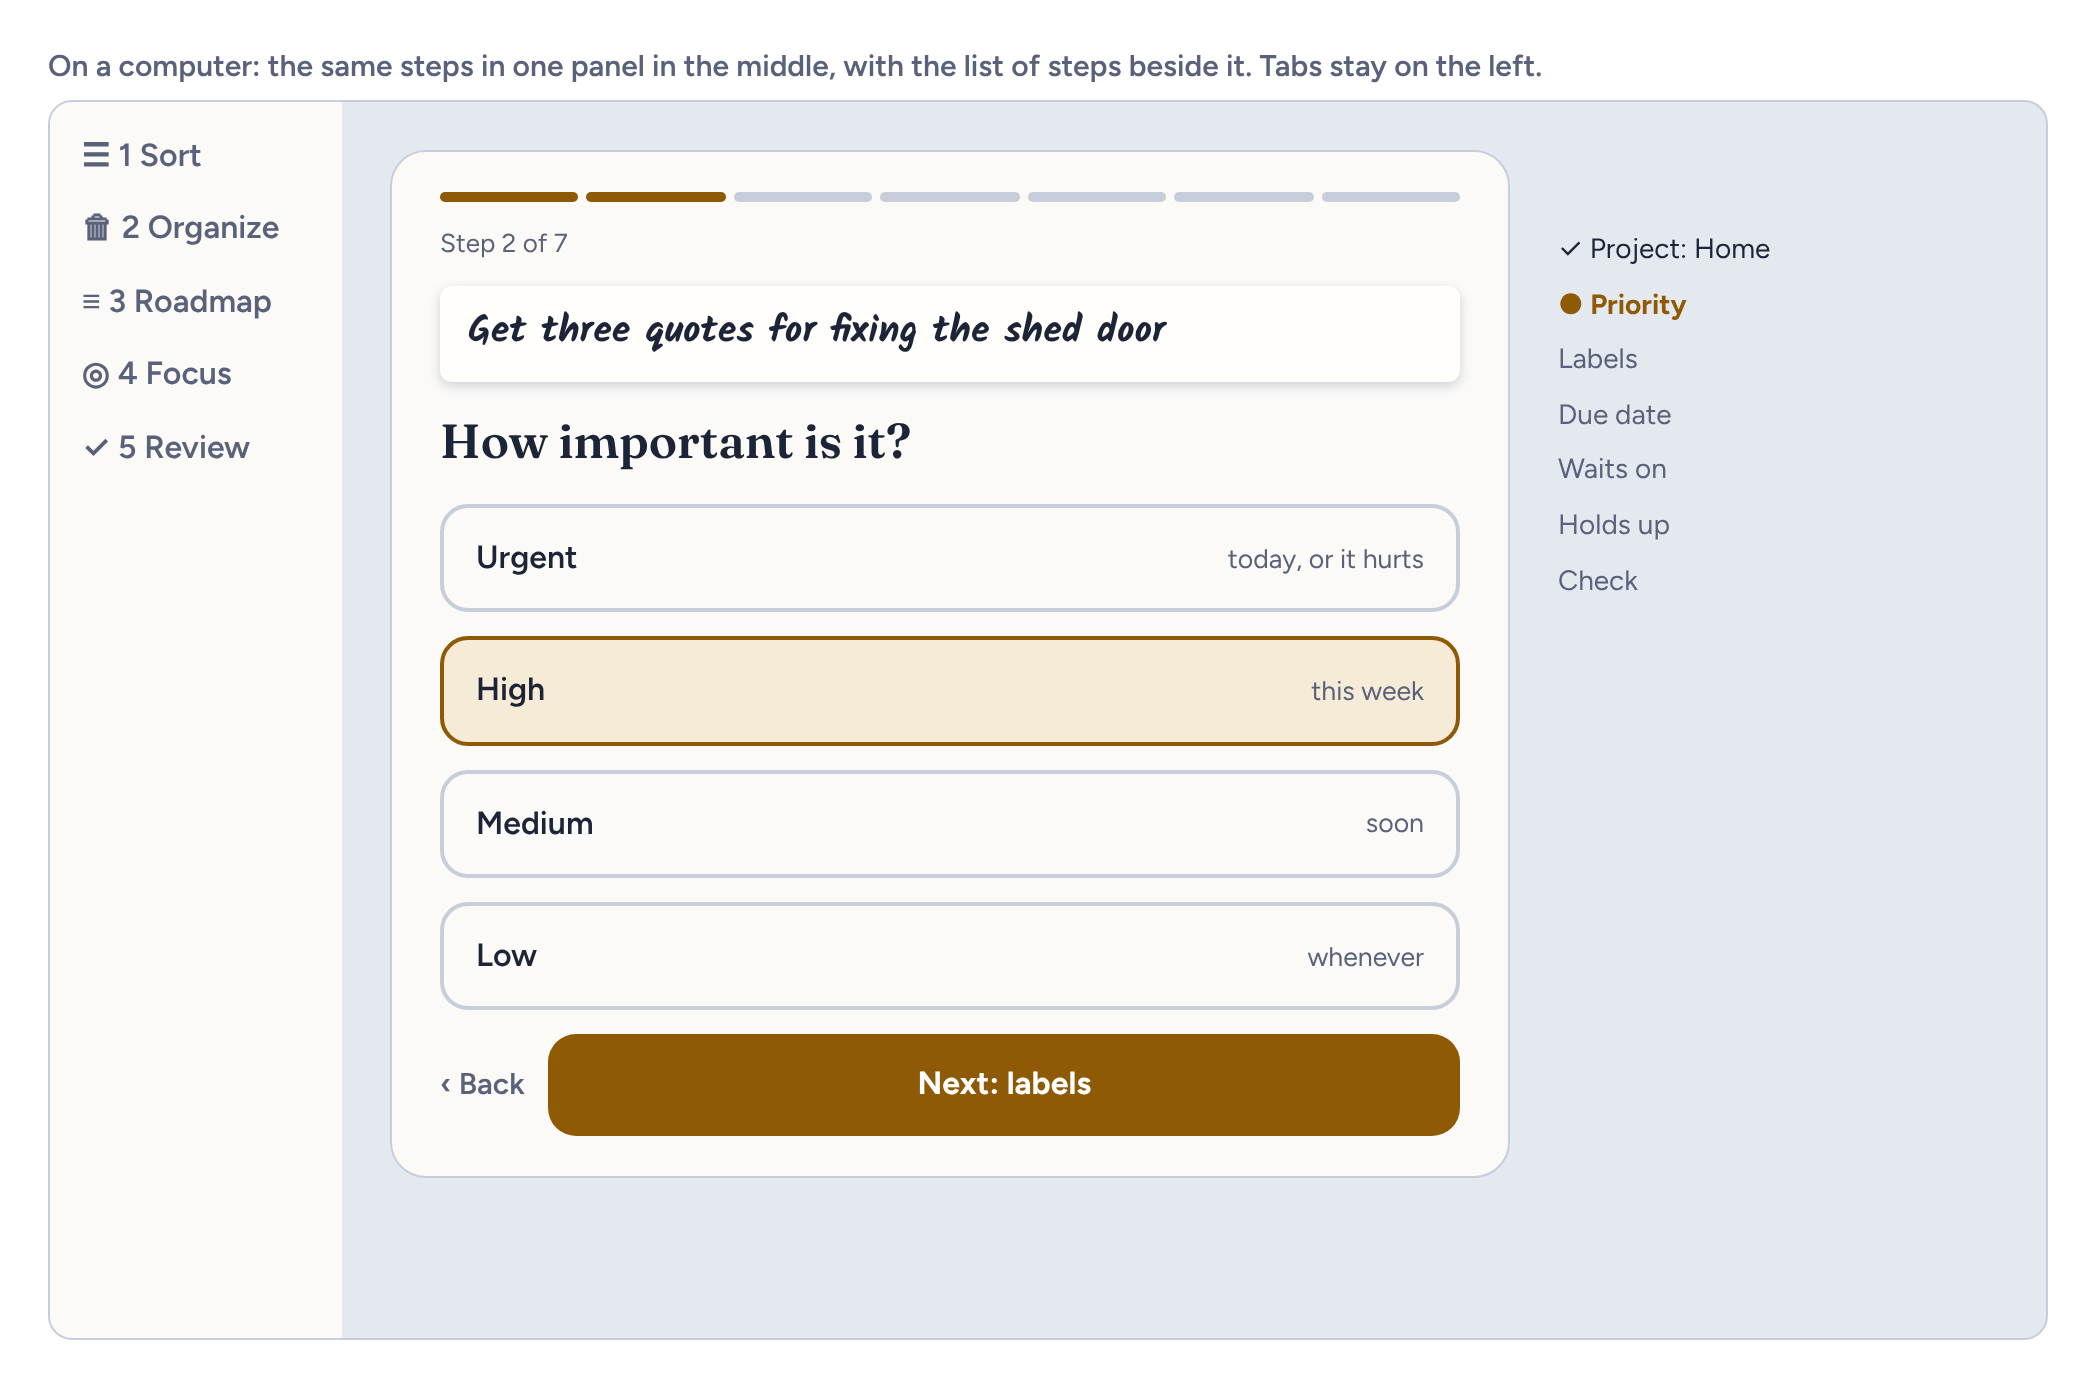
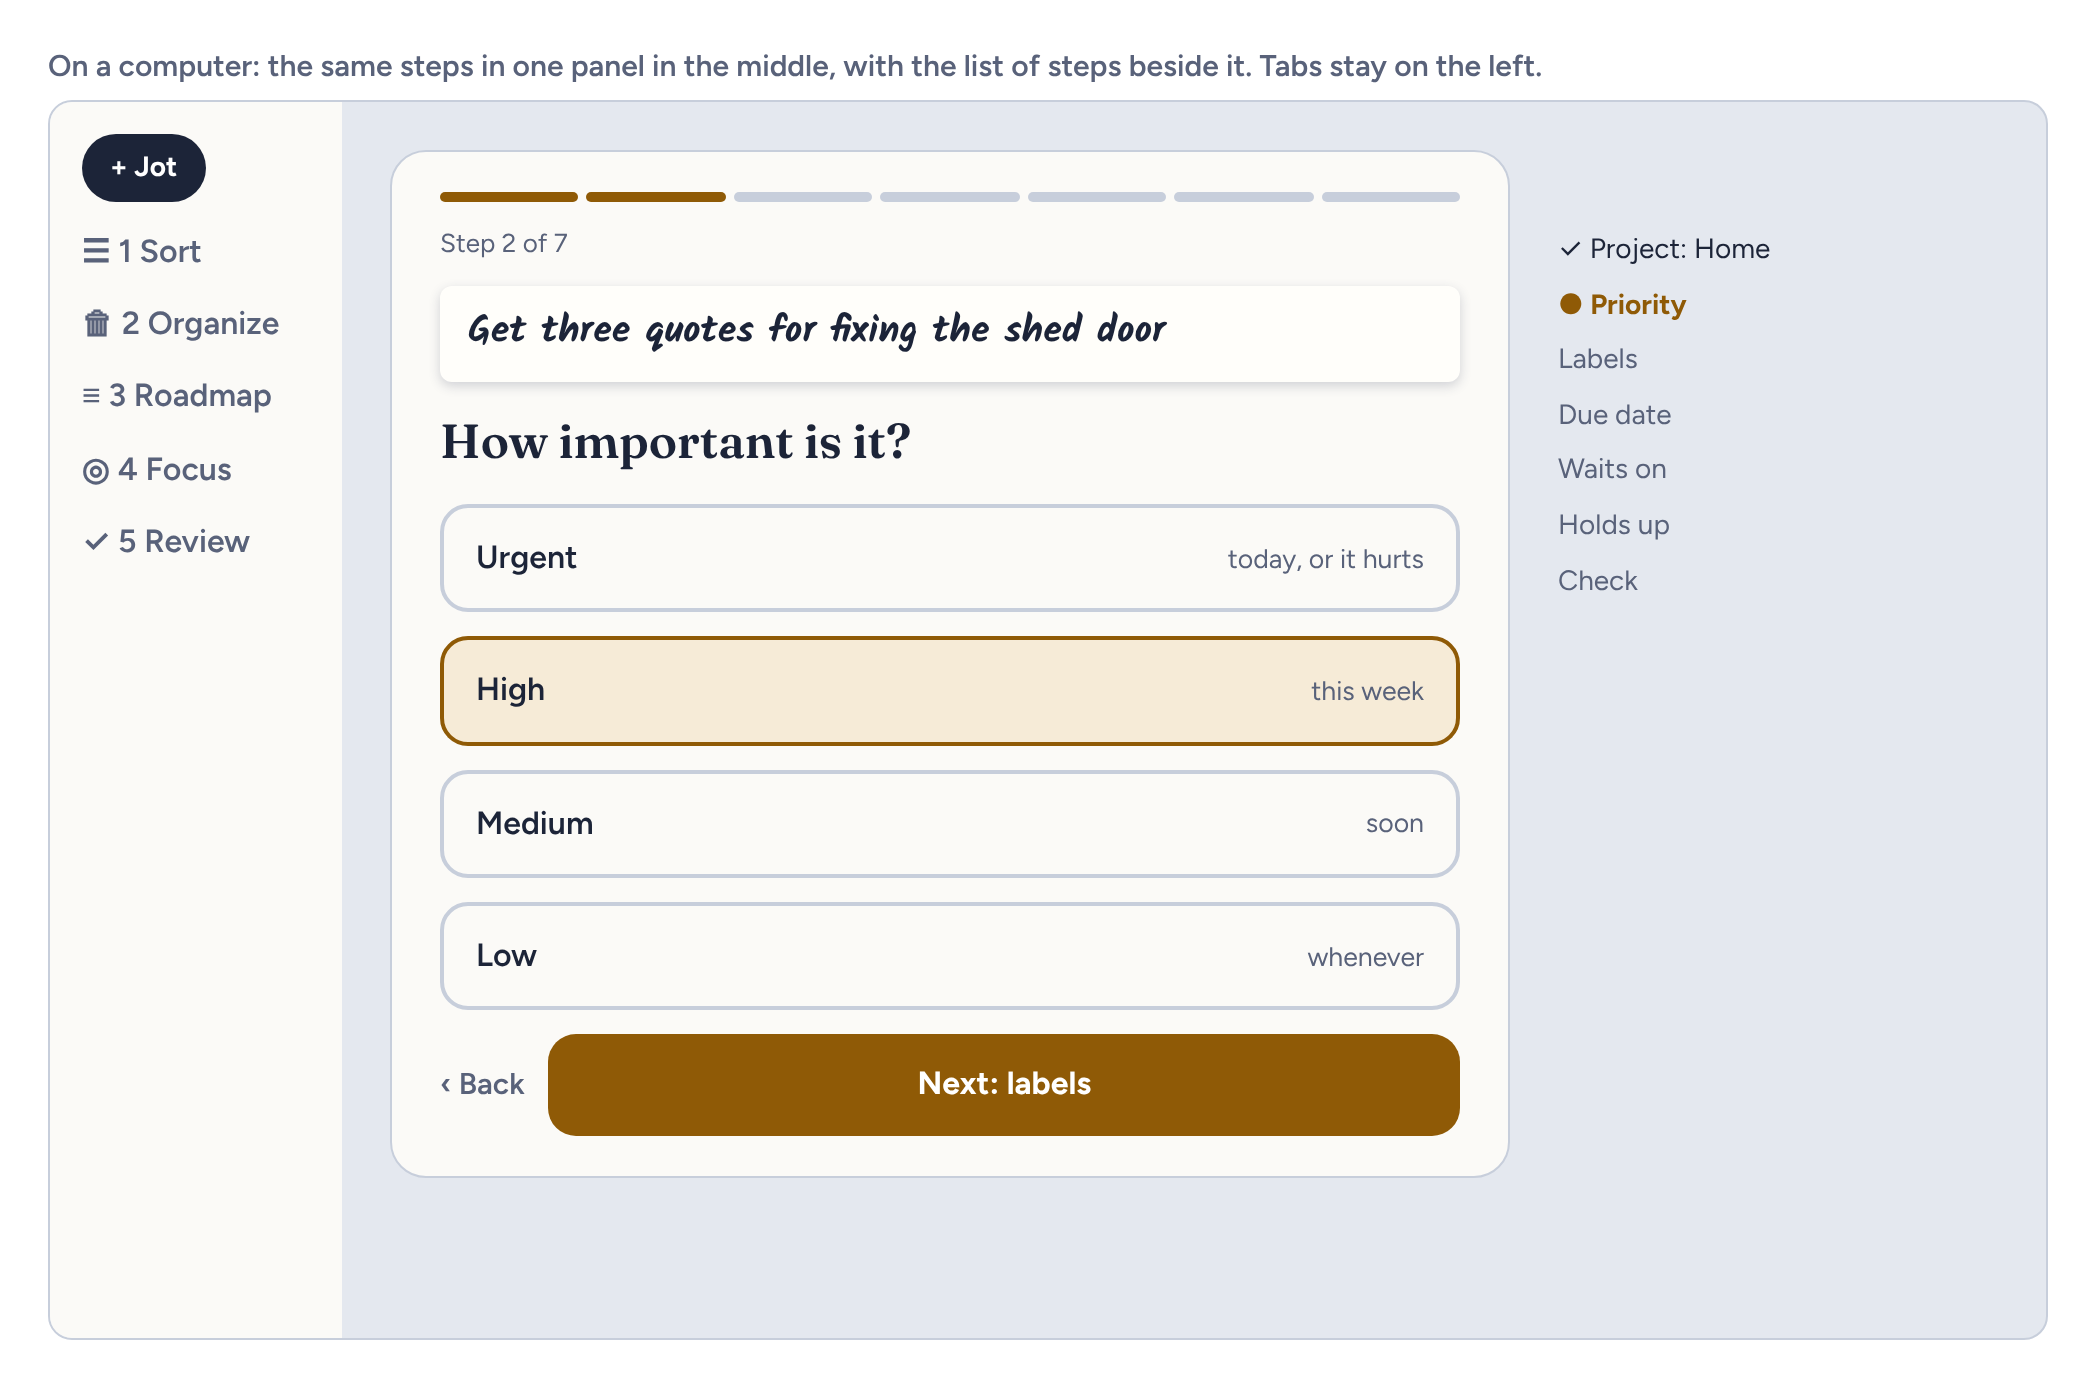
docs: step-by-step mock-ups show + Jot in the header
Refs #260

Committed by Edens Agent

Changed region(s): [[0.031, 0.0929, 0.124, 0.3408], [0.062, 0.3718, 0.124, 0.4027]]

diff --git a/docs/plans/friction-steps.html b/docs/plans/friction-steps.html
@@ -312,12 +312,12 @@ const PAGE = {
         "Everywhere",
         "Less on screen before your work",
         "you",
-        "The header keeps only the name and the settings cog. The jot box shrinks to a '+ Jot' button that opens a screen with only the box on it. The All / Area / Project switch becomes one line, 'Showing All tasks ▾', which opens the switch when tapped. Every screen gets the same shape: a question at the top, the answers below, and one big button at the bottom. On a phone, 3 things (the name, the cog and the 'Showing' line) sit above your work instead of 14.",
+        "The header keeps only the name, a '+ Jot' button and the settings cog, on every screen. You picked this: the jot box becomes the '+ Jot' button, and pressing it opens a screen with only the box on it. The All / Area / Project switch becomes one line, 'Showing All tasks ▾', which opens the switch when tapped. Every screen gets the same shape: a question at the top, the answers below, and one big button at the bottom. On a phone, 4 things (the name, + Jot, the cog and the 'Showing' line) sit above your work instead of 14.",
         "Check that one line saying what you're looking at is enough.",
         {
           "src": "friction-steps-pics/m-chrome.png",
           "alt": "Today's Sort screen beside the proposed one with a + Jot button",
-          "caption": "Left: today. Middle: proposed. Right: + Jot opens its own screen."
+          "caption": "Left: today. Middle: proposed. Right: + Jot, top right on every screen, opens its own screen."
         }
       ],
       [
@@ -391,7 +391,7 @@ const PAGE = {
     [
       "chg",
       "Header, jot box and switch",
-      "Shrink to the name, a '+ Jot' button and one 'Showing …' line.",
+      "Shrink to the name, a '+ Jot' button at the top and one 'Showing …' line. You picked this.",
       null,
       "Everything still works; it's one tap away instead of always open."
     ],
@@ -461,25 +461,6 @@ const PAGE = {
   ],
   "choices": [
     [
-      "jot",
-      "Where should the jot box go?",
-      [
-        [
-          "1",
-          "A '+ Jot' button on every tab",
-          1,
-          "It opens a screen with only the box on it, so it's always one tap away but never in the way."
-        ],
-        [
-          "2",
-          "Keep the full box at the top",
-          0,
-          "Always visible, but it takes a quarter of a phone screen on every tab."
-        ]
-      ],
-      "I suggest the button, because the box is the biggest single thing above your work today."
-    ],
-    [
       "optional",
       "How should the optional steps (labels, due date, waits on, holds up) work?",
       [
@@ -521,10 +502,10 @@ const PAGE = {
   "wrapup": {
     "summary": "Every screen becomes one question at a time: a seven-step flow for sorting and adding tasks, two steps for Focus, one task at a time in Tidy up, Now only in Triage, and one milestone at a time on the Roadmap. The header shrinks so your work starts near the top. No feature is removed.",
     "changing": "Changed: how much each screen shows at once, Sort, adding a task, Focus, Tidy up, Triage, the Roadmap, Task details and Milestone settings. Kept: every feature, your data, the five tabs, Review and Settings.",
-    "blocking": "Waiting on your three choices and your approval.",
+    "blocking": "Waiting on your two remaining choices and your approval. The jot choice is made: a '+ Jot' button at the top.",
     "next": "After you approve, I'll write the build plan as GitHub issues and build it on the same test link. Nothing goes into the app you use until you've tested it.",
     "todo": [
-      "Make the three choices at the bottom.",
+      "Make the two choices at the bottom.",
       "Tap <b>Copy my reply<\/b> and send it: \"Design approved: step by step\", or say what to change."
     ]
   }

diff --git a/docs/5-today/Today.md b/docs/5-today/Today.md
@@ -593,3 +593,7 @@ Click a milestone's name on the Roadmap: a dialog (a bottom sheet on a phone) se
 
 - 2026-11-12: all 11 steps of "tabs that follow the flow" built (#249 to #259, all labelled needs review); QA page docs/plans/flow-build-qa.html, test copy docs/generated/flow-qa/seed.html; waiting on Eden's QA and the pull request branch choice.
 - 2026-11-12: QA failed (too busy). Step-by-step proposal docs/plans/friction-steps.html sent for approval.
+
+## 2026-11-12, later: jot choice made, on the mock-up only
+
+Eden picked the "+ Jot" button for the step-by-step proposal, placed in the header on every screen. I misread that as approval to build it and started a builder; Eden said it was meant for the mock-up only, so the build was stopped before anything was merged (issue #260 is on hold). The proposal page and drawings now show + Jot in the header. Waiting on Eden's review of the rest of the design and the two remaining choices.
